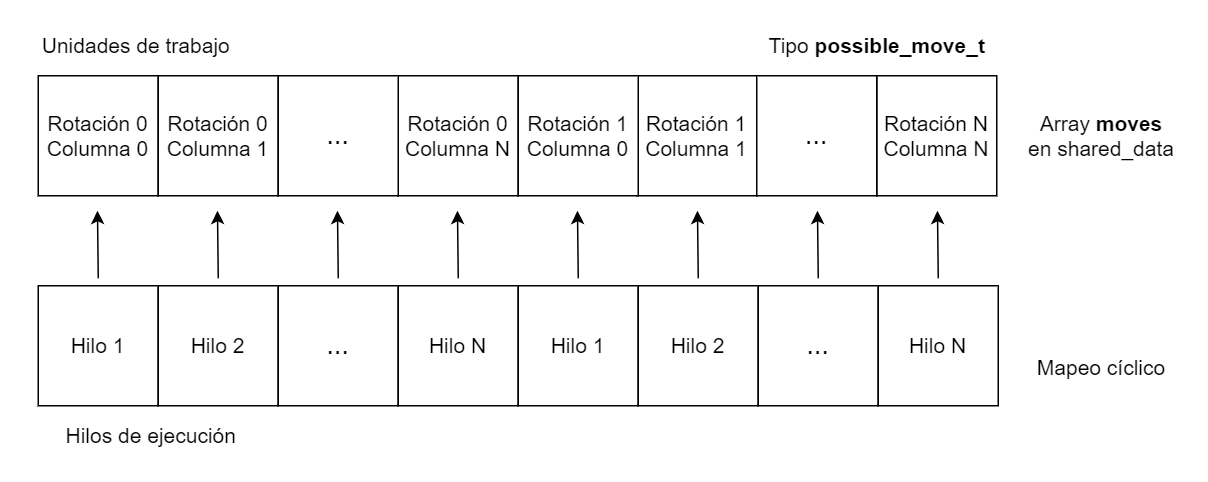
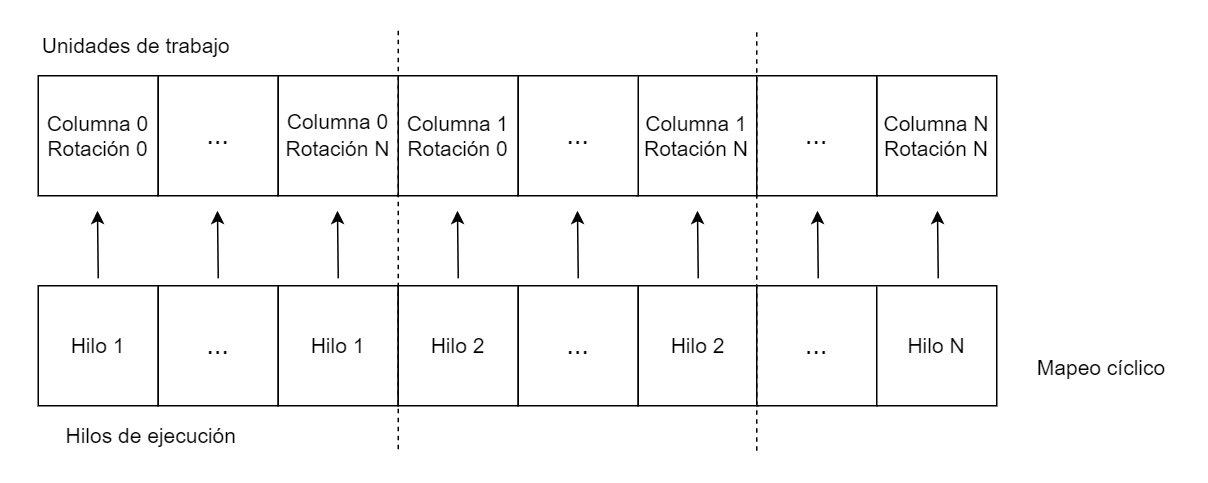
Correccion Issue #1

diff --git a/tareas/tetris_solver_pthreads/src/tetris_state.c b/tareas/tetris_solver_pthreads/src/tetris_state.c
@@ -214,56 +214,56 @@ void *solve_tetris(void *data) {
     const private_data_t* private_data = (private_data_t*)data;
     shared_data_t* shared_data = private_data->shared_data;
 
-    for (int i = private_data->thread_number; i < shared_data->moves_count;
-                                              i += shared_data->thread_count) {
-        // Se clona el tetris
-        tetris_t* tetris = clone_tetris(shared_data);
+    int num_rotations =
+       get_tetris_figure_num_rotations(shared_data->tetris->figure_sequence[0]);
 
-        figure_t* figure = get_tetris_figure(tetris->figure_sequence[0],
-                                             shared_data->moves[i].rotation);
+    // Se recorren las unidades de trabajo (columnas) segun un mapeo ciclico
+    for (int col = private_data->thread_number;
+                        col < num_rotations * shared_data->tetris->columns;
+                        col += shared_data->thread_count) {
+        for (int rotation = 0; rotation < num_rotations; ++rotation) {
+            // Se clona el tetris
+            tetris_t* tetris = clone_tetris(shared_data);
 
-        // Se valida si la figura cabe en la columna
-        if (valid_column(tetris, figure, shared_data->moves[i].column)) {
-            // Intenta colocar la figura en la fila más baja
-            int num_row = place_figure(tetris, figure,
-                                       shared_data->moves[i].column);
+            figure_t* figure = get_tetris_figure(tetris->figure_sequence[0],
+                                                 rotation);
 
-            pthread_mutex_lock(&shared_data->can_access_min_height);
-            int shared_min_height = shared_data->tetris->min_height;
-            pthread_mutex_unlock(&shared_data->can_access_min_height);
+            // Se valida si la figura cabe en la columna
+            if (valid_column(tetris, figure, col)) {
+                // Intenta colocar la figura en la fila más baja
+                int num_row = place_figure(tetris, figure, col);
 
-            // TODO(manum): optimizar
-            if (calculate_height(tetris) > shared_min_height) {
-                destroy_tetris(tetris);
-                continue;
-            }
+                pthread_mutex_lock(&shared_data->can_access_min_height);
+                int shared_min_height = shared_data->tetris->min_height;
+                pthread_mutex_unlock(&shared_data->can_access_min_height);
 
-            // Si logró colocar la figura
-            if (num_row != -1) {
-                // Crea el registro del nivel
-                struct level_t* level = create_level(tetris->figure_sequence[0],
-                                                shared_data->moves[i].rotation,
-                                                tetris->rows, tetris->columns,
-                                                tetris->matrix);
-                if (level) {
-                    struct level_t * current = tetris->levels;
-
-                    // Si tiene más niveles siguientes los elimina
-                    // if (current->next) {
-                    //     destroy_levels(current->next, tetris->rows);
-                    // }
-
-                    // Agrega el nuevo nivel
-                    current->next = level;
-                    current->next->next = NULL;
+                if (calculate_height(tetris) > shared_min_height) {
+                    destroy_tetris(tetris);
+                    continue;
                 }
 
-                // Llamado a rutina recursiva con la siguiente figura
-                solve_tetris_dfs(tetris, 1, tetris->levels, shared_data);
+                // Si logró colocar la figura
+                if (num_row != -1) {
+                    // Crea el registro del nivel
+                    struct level_t* level =
+                                        create_level(tetris->figure_sequence[0],
+                                        rotation, tetris->rows, tetris->columns,
+                                        tetris->matrix);
+                    if (level) {
+                        struct level_t * current = tetris->levels;
+
+                        // Agrega el nuevo nivel
+                        current->next = level;
+                        current->next->next = NULL;
+                    }
+
+                    // Llamado a rutina recursiva con la siguiente figura
+                    solve_tetris_dfs(tetris, 1, tetris->levels, shared_data);
+                }
             }
+            // Liberar tetris
+            destroy_tetris(tetris);
         }
-        // Liberar tetris
-        destroy_tetris(tetris);
     }
     return NULL;
 }

diff --git a/tareas/tetris_solver_pthreads/src/tetris_solver_pthreads.c b/tareas/tetris_solver_pthreads/src/tetris_solver_pthreads.c
@@ -8,7 +8,7 @@
 #include <stdlib.h>
 #include <unistd.h>
 #include <string.h>
-#include <pthread.h>  // Para el cálculo del tiempo de ejecución
+#include <pthread.h>
 
 #include "tetris_state.h"
 #include "tetris_utils.h"
@@ -27,7 +27,8 @@ void generate_files(tetris_t* tetris, struct level_t* base_level);
 
 /**
  * @brief Rutina para iniciar a solucionar el tetris.
- * @details Almacena en un arreglo todas las posibles columnas y rotaciones en que se puede colocar una figura para separar los datos entre los hilos.
+ * @details Almacena en un arreglo todas las posibles columnas y rotaciones en que se puede colocar una
+ * figura para separar los datos entre los hilos.
  * @param shared_data Puntero a la informacion compartida.
  * @return void.
  */
@@ -175,30 +176,6 @@ void generate_files(tetris_t* tetris, struct level_t* base_level) {
 }
 
 void start_solver(shared_data_t* shared_data) {
-    tetris_t* tetris = shared_data->tetris;
-
-    int num_rotations =
-        get_tetris_figure_num_rotations(tetris->figure_sequence[0]);
-
-    shared_data->moves = (possible_move_t*)
-        calloc(num_rotations*tetris->columns, sizeof(possible_move_t));
-
-    if (!shared_data->moves) {
-        fprintf(stderr, "Error: could not create shared_data.\n");
-        return;
-    }
-
-    // Se recorren todas las posibles rotaciones de la figura
-    for (int rotation = 0; rotation < num_rotations; ++rotation) {
-        // Se recorren todas las columnas del tablero
-        for (int num_col = 0; num_col < tetris->columns; ++num_col) {
-            int index = (rotation * tetris->columns) + num_col;
-            shared_data->moves[index].rotation = rotation;
-            shared_data->moves[index].column = num_col;
-        }
-    }
-    shared_data->moves_count = num_rotations * tetris->columns;
-
     pthread_t* threads = (pthread_t*) calloc(shared_data->thread_count,
                                              sizeof(pthread_t));
     private_data_t* private_data = (private_data_t*)
@@ -227,7 +204,6 @@ void start_solver(shared_data_t* shared_data) {
         free(private_data);
         pthread_mutex_destroy(&shared_data->can_access_min_height);
         pthread_mutex_destroy(&shared_data->can_access_levels);
-        free(shared_data->moves);
     } else {
         fprintf(stderr, "Error: could not create threads or private_data.\n");
     }

diff --git a/tareas/tetris_solver_pthreads/src/tetris_state.h b/tareas/tetris_solver_pthreads/src/tetris_state.h
@@ -28,26 +28,13 @@ typedef struct {
 } tetris_t;
 
 /**
- * @brief Estructura para almacenar todas las posibles jugadas de la primera letra.
- * @details Contiene el numero de rotacion de la figura y el numero de la columna
- * para cada una de las combinaciones de la primera figura que esta cayendo.
- */
-typedef struct {
-    int rotation;
-    int column;
-} possible_move_t;
-
-/**
  * @brief Estructura de datos compartidos entre todos los hilos de ejecucion.
- * @details Contiene la cantidad de hilos, la cantidad de jugadas diferentes, el arreglo de todas
- * las combinaciones de jugadas posibles, el estado del tetris inicial, un mutex para controlar el
+ * @details Contiene la cantidad de hilos, el estado del tetris inicial, un mutex para controlar el
  * acceso a la variable altura minima del tetris compartido y otro mutex para acceder al acceso a
  * los niveles.
  */
 typedef struct {
     int thread_count;
-    int moves_count;
-    possible_move_t* moves;
     tetris_t* tetris;
     pthread_mutex_t can_access_min_height;
     pthread_mutex_t can_access_levels;

diff --git a/tareas/tetris_solver_pthreads/design/README.md b/tareas/tetris_solver_pthreads/design/README.md
@@ -7,14 +7,13 @@ El siguiente diagrama UML muestra el diseño de la estructura de datos realizada
 
 Como se puede apreciar, existen 3 estructuras de datos básicas que representan las figuras, el estado del tetris y una cola para manejar los niveles. La estructura de figuras no se relaciona directamente con el estado del tetris ni con los niveles, pero el estado del tetris sí tiene relación directa con la estructura de niveles mediante un puntero al nivel inicial o base cargado desde el archivo de entrada. Además, la estructura de niveles tiene una relación a sí misma ya que al funcionar como una cola cada nodo (nivel) se relaciona con el nodo que le sigue (siguiente nivel).
 
-Por otro lado, existen otras 3 estructuras de datos que son utilizadas para el manejo de la concurrencia:
+Por otro lado, existen otras 2 estructuras de datos que son utilizadas para el manejo de la concurrencia:
 *   Datos privados de cada hilo. Tiene una relación directa hacia la estructura de datos compartidos.
-*   Datos compartidos entre todos los hilos. Tiene una relación directa hacia la estructura del estado global del tetris y también hacia la estructura de posibles jugadas o movimientos.
-*   Posibles movimientos. Representa las distintas combinaciones en cuanto a la rotación y la columna de la figura del primer nivel, en otras palabras, representa las posibles jugadas de la primer figura que serán repartidas entre los hilos de ejecución. 
+*   Datos compartidos entre todos los hilos. Tiene una relación directa hacia la estructura del estado global del tetris.
 
 
 ## Diagrama de repartición de trabajo entre hilos
-La repartición del trabajo entre los hilos de ejecución se realiza mediante un mapeo cíclico, donde cada hilo efectuará el cálculo recursivo para un movimiento o jugada específica de la primera figura. Cada unidad de trabajo corresponde a una combinación específica de la rotación y la columna de la figura del primer nivel; y de forma cíclica, cada hilo tomará la siguiente unidad de trabajo en el arreglo de todas las posibles jugadas para la primera figura calculadas en el main.
+La repartición del trabajo entre los hilos de ejecución se realiza mediante un mapeo cíclico, donde cada hilo efectuará el cálculo recursivo para una columna específica y para cada rotación de la primera figura. Cada unidad de trabajo corresponde a una columna del tablero y se recorrerá cada posible rotación para calcular el mejor score. De forma cíclica, cada hilo tomará la siguiente columna según el tamaño del tablero.
 
 Lo anterior se resume en el siguiente diagrama:
 
@@ -78,17 +77,7 @@ generate_files:
         print_matrix_file(tetris.rows, current.matrix, out_file);
     end while
 
-start_solver:
-    num_rotations := get_tetris_figure_num_rotations(tetris.figure_sequence[0])
-    for rotation := 0 to num_rotations do
-        for num_col := 0 to tetris.columns do
-            index := (rotation * tetris.columns) + num_col
-            shared moves[index].rotation = rotation
-            shared moves[index].column = num_col
-        end for
-    end for
-
-    shared moves_count := num_rotations * tetris.columns
+start_solver:    
     shared can_access_min_height := mutex()
     shared can_access_levels := mutex()
 
@@ -96,25 +85,28 @@ start_solver:
         create_thread(index, solve_tetris)
     end for
 
-
 solve_tetris:
-    for i := thread_number to moves_count, i += thread_count do
-        figure := get_tetris_figure(tetris.figure_sequence[0], moves[i].rotation)
-        place_figure(tetris, figure, moves[i].column)
+    num_rotations := get_tetris_figure_num_rotations(tetris.figure_sequence[0])
 
-        level = create_level(tetris)
-        tetris.levels.next := level
+    for col := thread_number to num_rotations*tetris->columns, col += thread_count do
+        for rotation := 0 to num_rotations do
+            figure := get_tetris_figure(tetris.figure_sequence[0], rotation)
+            place_figure(tetris, figure, col)
 
-        solve_tetris_dfs(tetris, 1, tetris->levels);
+            level = create_level(tetris)
+            tetris.levels.next := level
 
-        current_height := calculate_height()
-        mutex_lock(can_access_min_height)
-        if current_height < tetris.min_height then
-            tetris.min_height := current_height
-            mutex_lock(can_access_levels)
-            tetris.levels := clone_level(tetris)
-            mutex_unlock(can_access_levels)
-        end if
-        mutex_unlock(can_access_min_height)
+            solve_tetris_dfs(tetris, 1, tetris->levels);
+
+            current_height := calculate_height()
+            mutex_lock(can_access_min_height)
+            if current_height < tetris.min_height then
+                tetris.min_height := current_height
+                mutex_lock(can_access_levels)
+                tetris.levels := clone_level(tetris)
+                mutex_unlock(can_access_levels)
+            end if
+            mutex_unlock(can_access_min_height)
+        end for
     end for
 ```
